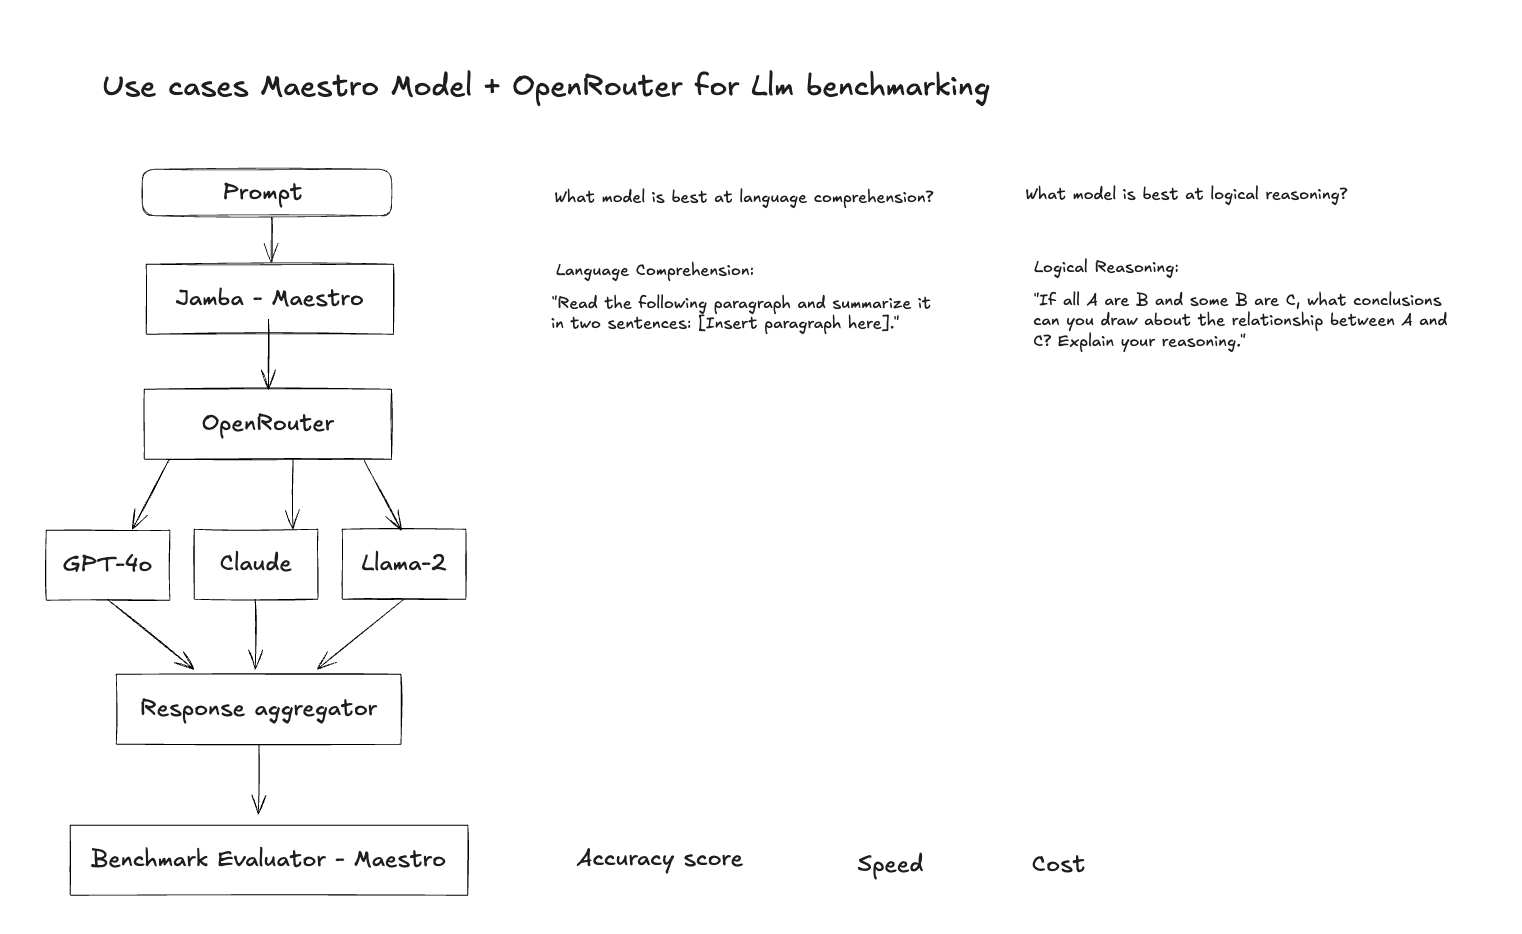
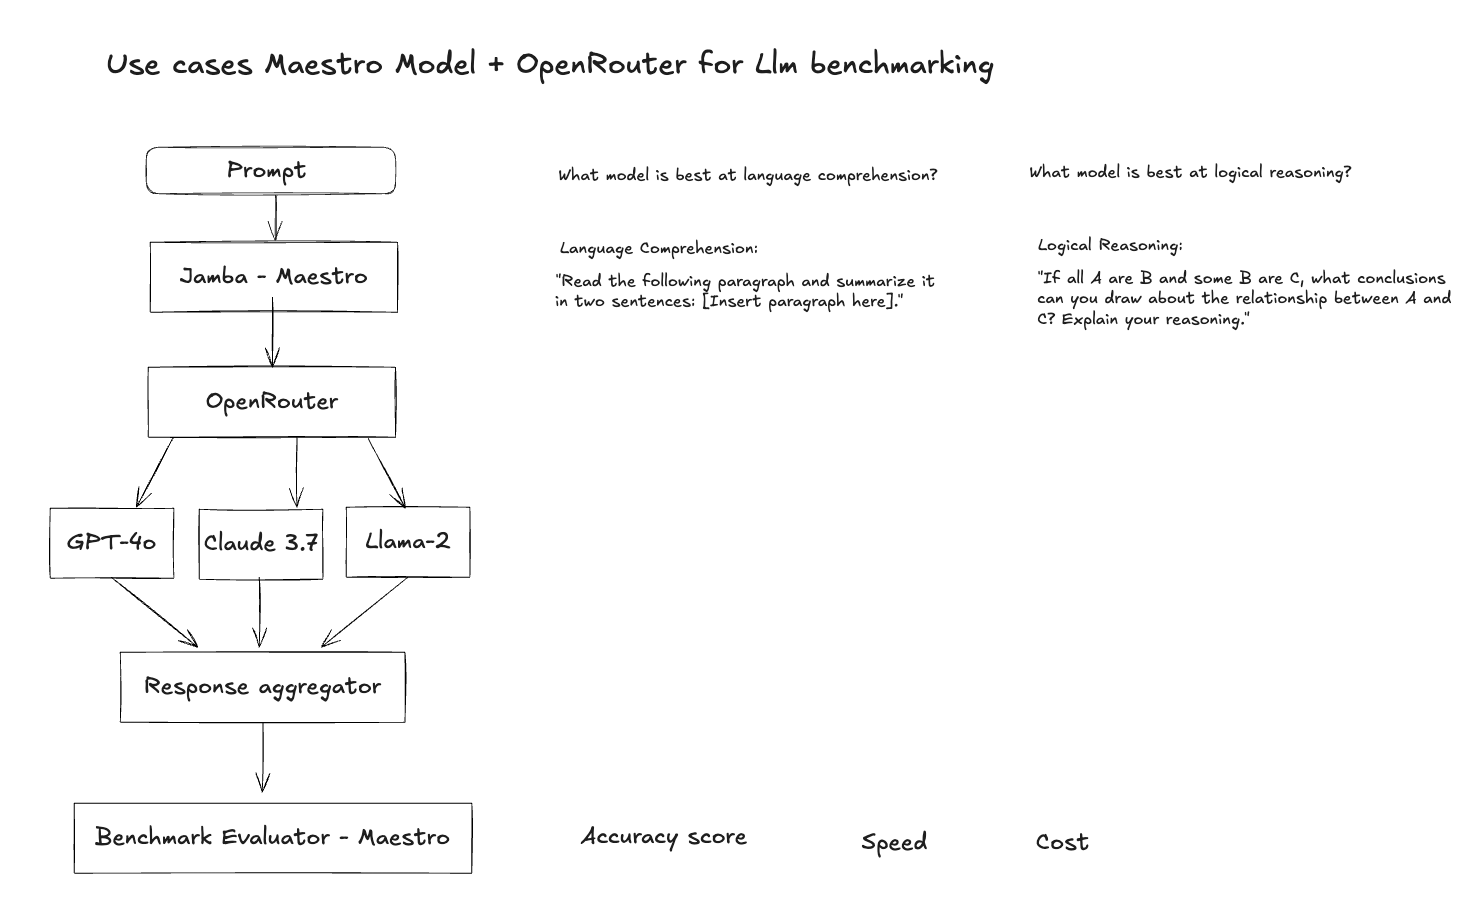
updated image

diff --git a/README.md b/README.md
@@ -93,7 +93,7 @@ The application uses Maestro Model with OpenRouter for LLM benchmarking to evalu
 ![LLM Benchmarking Architecture](/public/images/diagram.png)
 
 This architecture allows us to:
-- Route prompts through various LLM providers (GPT-4o, Claude, Llama-2)
+- Route prompts through various LLM providers (GPT-4o, Claude 3.7 Sonnet, Llama-2)
 - Evaluate performance on different tasks like language comprehension and logical reasoning
 - Aggregate responses for comparative analysis
 - Calculate metrics including accuracy, speed, and cost 
